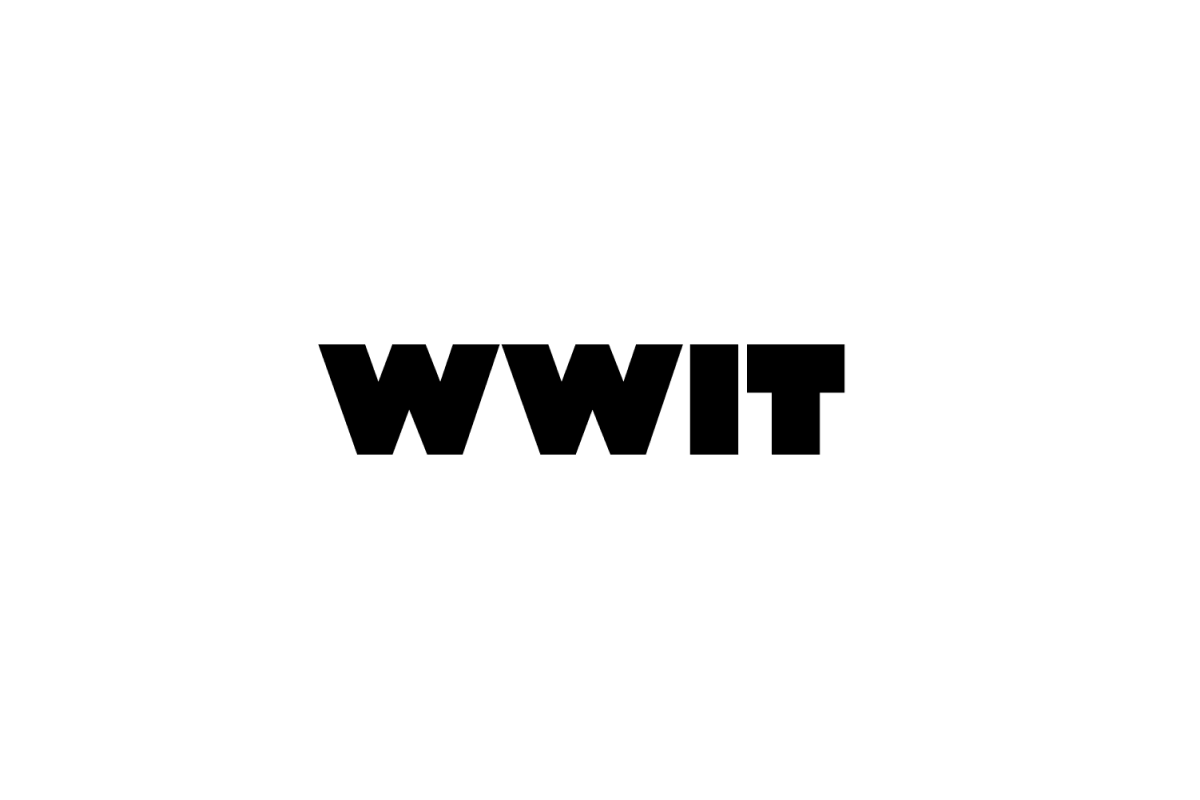
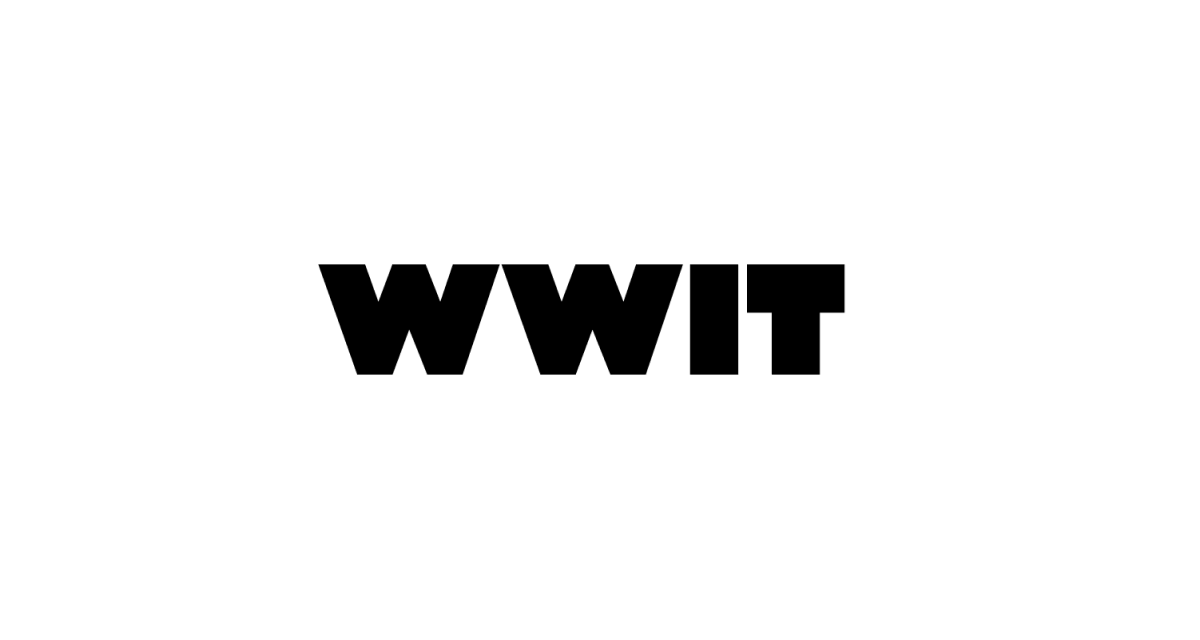
edit thumbnail

diff --git a/_projects/2022-01-02-spoqahansansneo.md b/_projects/2022-01-02-spoqahansansneo.md
@@ -3,7 +3,7 @@ title: '스포카 한 산스 네오'
 categories: 'Font'
 date: 2022-01-02 00:00:00
 description: 
-featured_image: '/img/00_projects/shs_neo/thumbnail.png'
+featured_image: '/img/00_projects/shs_neo/thumbnail2.png'
 external_url: 'https://spoqa.github.io/spoqa-han-sans/'
 external_site: Spoqa Han Sans
 ---

diff --git a/_projects/2022-06-20-WWIT.md b/_projects/2022-06-20-WWIT.md
@@ -3,7 +3,7 @@ title: 'WWIT - what was it'
 categories: 'UI/UX'
 date: 2022-06-20 00:00:00
 description: 
-featured_image: '/img/00_projects/WWIT/thumbnail.png'
+featured_image: '/img/00_projects/WWIT/thumbnail2.png'
 external_url: 'https://wwit.design'
 external_site: WWIT
 ---

diff --git a/_projects/2018-06-30-spoqawelcomekit.md b/_projects/2018-06-30-spoqawelcomekit.md
@@ -3,7 +3,7 @@ title: '스포카 웰컴키트'
 categories: 'Branding'
 date: 2018-06-30 00:00:00
 description: 
-featured_image: '/img/00_projects/spoqa_welcome/01.jpg'
+featured_image: '/img/00_projects/spoqa_welcome/02.jpg'
 ---
 ![](/img/00_projects/spoqa_welcome/01.jpg)
 

diff --git a/_projects/2018-05-30-wpc2019.md b/_projects/2018-05-30-wpc2019.md
@@ -3,7 +3,7 @@ title: '여성기획자컨퍼런스 2019'
 categories: 'Branding'
 date: 2018-05-30 00:00:00
 description: 
-featured_image: '/img/00_projects/wpc2019/01.jpg'
+featured_image: '/img/00_projects/wpc2019/03.jpg'
 ---
 
 ![](/img/00_projects/wpc2019/01.jpg)
